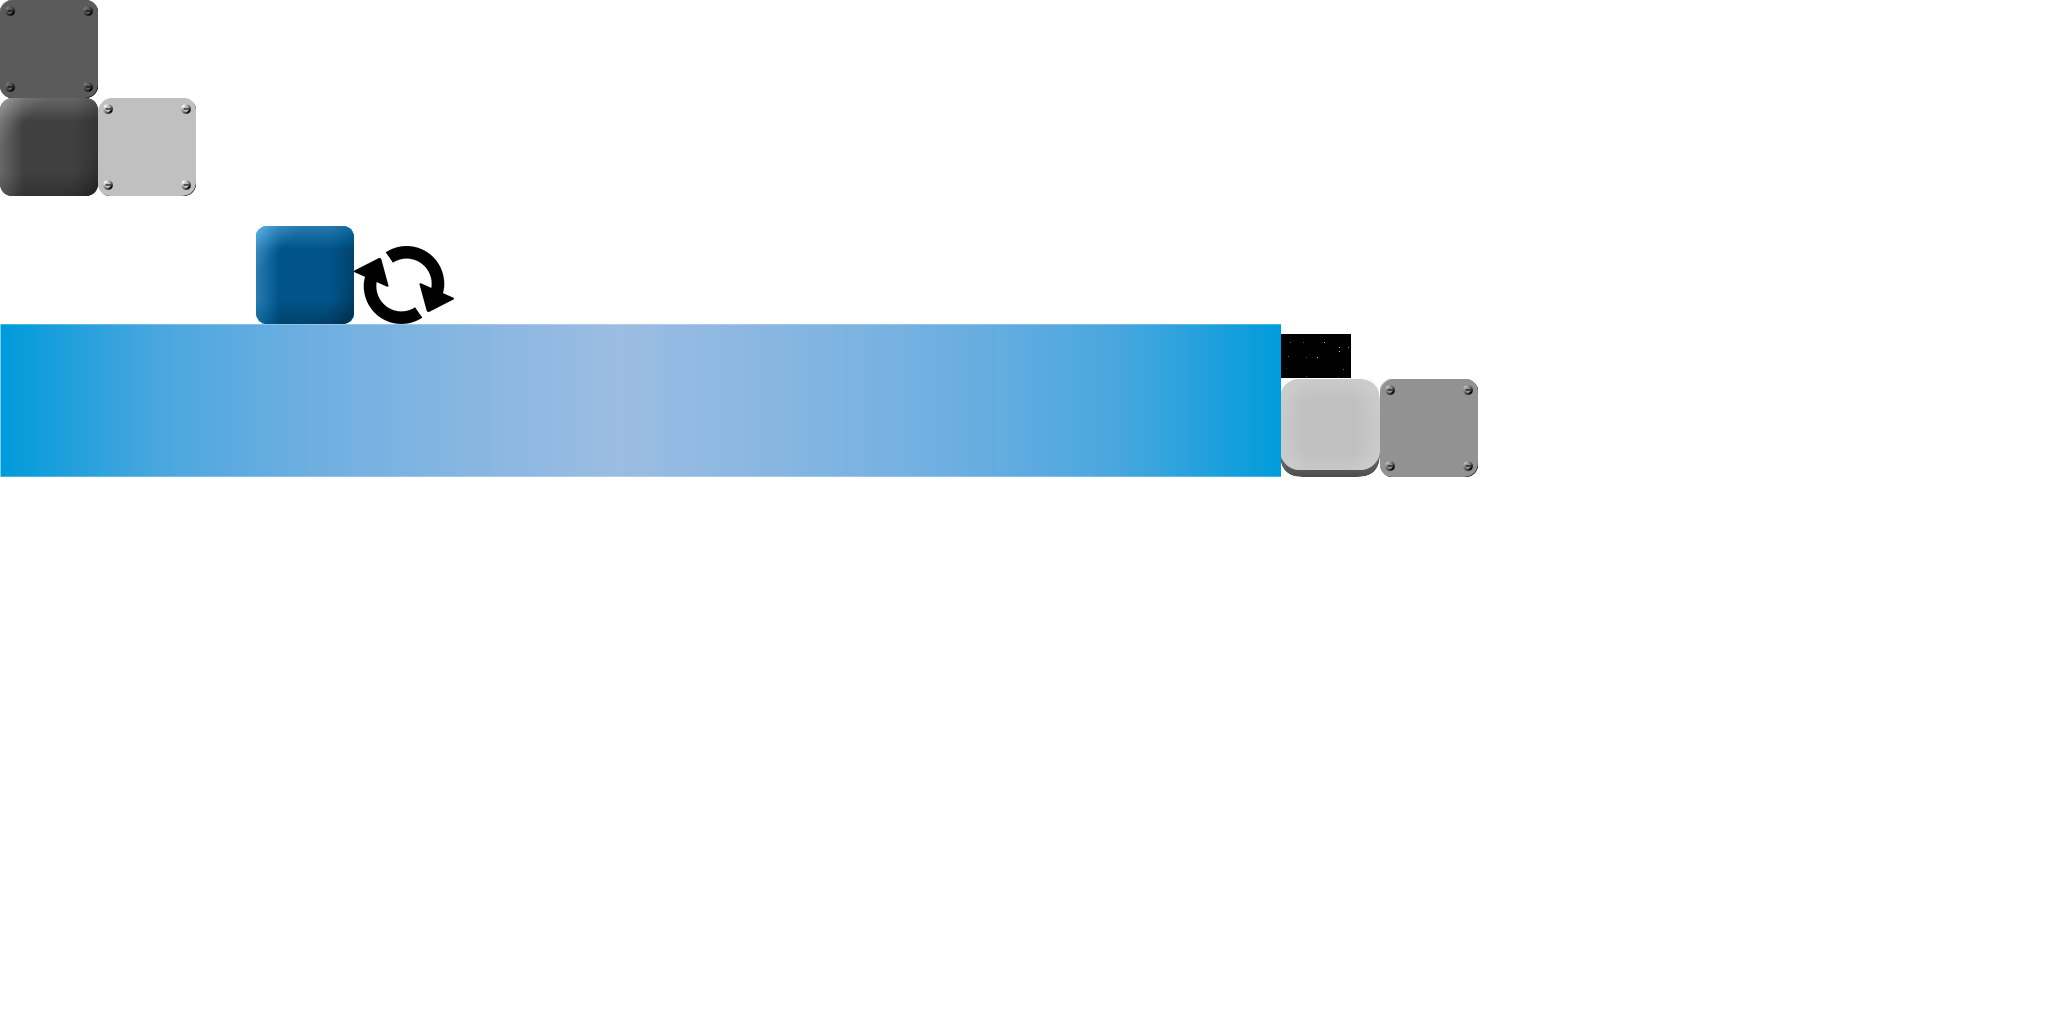
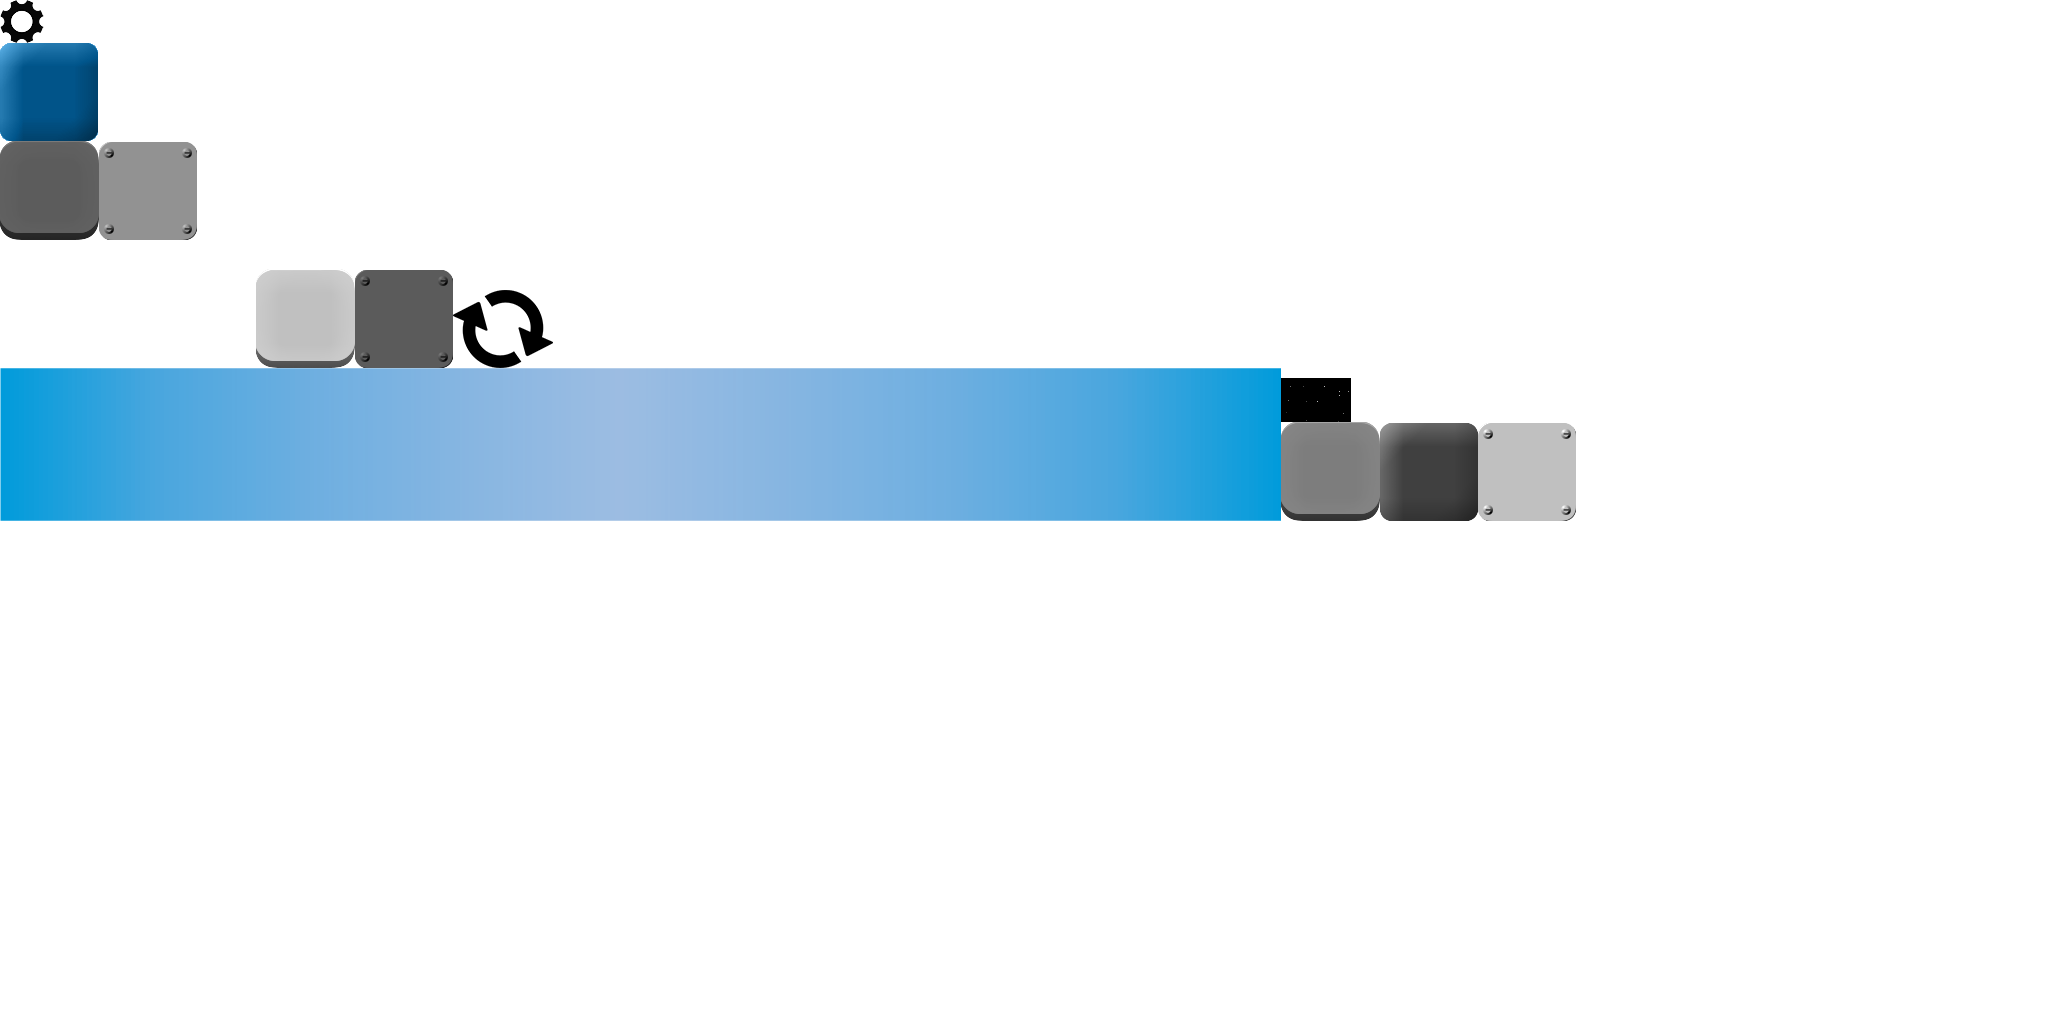
+adds pause menu

Changed region(s): [[0.0, 0.2188, 0.7812, 0.5312], [0.0, 0.0, 0.0938, 0.25]]

diff --git a/core/src/com/siondream/libgdxjam/screens/GameScreen.java b/core/src/com/siondream/libgdxjam/screens/GameScreen.java
@@ -12,15 +12,18 @@ import com.badlogic.gdx.Screen;
 import com.badlogic.gdx.assets.AssetManager;
 import com.badlogic.gdx.audio.Music;
 import com.badlogic.gdx.graphics.OrthographicCamera;
-import com.badlogic.gdx.graphics.g2d.TextureAtlas;
-import com.badlogic.gdx.graphics.g2d.TextureRegion;
 import com.badlogic.gdx.physics.box2d.World;
 import com.badlogic.gdx.scenes.scene2d.InputEvent;
 import com.badlogic.gdx.scenes.scene2d.Stage;
 import com.badlogic.gdx.scenes.scene2d.ui.Button;
+import com.badlogic.gdx.scenes.scene2d.ui.ImageButton;
+import com.badlogic.gdx.scenes.scene2d.ui.Label;
+import com.badlogic.gdx.scenes.scene2d.ui.Skin;
 import com.badlogic.gdx.scenes.scene2d.ui.Table;
+import com.badlogic.gdx.scenes.scene2d.ui.TextButton;
+import com.badlogic.gdx.scenes.scene2d.ui.VerticalGroup;
+import com.badlogic.gdx.scenes.scene2d.ui.Window;
 import com.badlogic.gdx.scenes.scene2d.utils.ClickListener;
-import com.badlogic.gdx.scenes.scene2d.utils.TextureRegionDrawable;
 import com.badlogic.gdx.utils.Disposable;
 import com.badlogic.gdx.utils.Logger;
 import com.badlogic.gdx.utils.TimeUtils;
@@ -65,7 +68,8 @@ public class GameScreen implements Screen, InputProcessor {
 	private OverlapScene scene;
 	private Logger logger = new Logger(GameScreen.class.getSimpleName(), Env.LOG_LEVEL);
 	
-	private Button resetButton;
+	private Button optionsButton;
+	private Window optionsWindow;
 	private Music music;
 	
 	public GameScreen() {
@@ -101,7 +105,7 @@ public class GameScreen implements Screen, InputProcessor {
 		
 		scene = SceneManager.loadScene("Level1", world, categories, rayHandler);
 		
-		loadUI();
+		setupUI();
 		
 		addInputProcessors();
 		
@@ -121,47 +125,93 @@ public class GameScreen implements Screen, InputProcessor {
 		music.stop();
 	}
 	
-	private void loadUI()
+	private void setupUI()
 	{
 		AssetManager assetMgr = Env.getGame().getAssetManager();
 		Stage stage = Env.getGame().getStage();
 		
-		Table table = new Table();
-		table.setFillParent(true);
+		Table mainTable = new Table();
+		mainTable.setFillParent(true);
 		
-		TextureAtlas uiAtlas = assetMgr.get(Env.UI_FOLDER + "/ui.atlas", TextureAtlas.class);
+		Skin skin = assetMgr.get(Env.UI_FOLDER + "/ui.skin", Skin.class);
 		
-		generateResetButton(uiAtlas);
+		createOptionsDialog(skin, mainTable);
+		
+		mainTable.row().padTop(30f).colspan(2).expand();
+		createOptionsButton(skin, mainTable);		
+		mainTable.row().colspan(1);
 
-		table.row().padTop(30f).colspan(2).expand();
-		table.add(resetButton).top().right();
-		table.row().colspan(1);
-				
-		table.debug();
+		//mainTable.debug();
 		
-		stage.addActor(table);
+		stage.addActor(mainTable);
 	}
 	
 	public void loadVictoryUI()
 	{
 		
 	}
-	
 
-	private void generateResetButton(TextureAtlas uiAtlas)
+	//TODO: TO BE IMPROVED
+	private void createOptionsDialog(Skin skin, Table mainTable)
 	{
-		TextureRegion resetButtonRegion = uiAtlas.findRegion("btn_reset"); 
-		Button.ButtonStyle resetButtonStyle = new Button.ButtonStyle();
-		resetButtonStyle.up = new TextureRegionDrawable(resetButtonRegion);
-		resetButton = new Button(resetButtonStyle);
+		optionsWindow = new Window("", skin, "options");
+		optionsWindow.setSize(700f, 500f);
+		optionsWindow.setPosition((Env.MAX_UI_WIDTH - 700f) * .5f, (Env.MAX_UI_HEIGHT - 500f) * .5f);
 		
-		resetButton.addListener(new ClickListener() {
+		Label title = new Label("SETTINGS", skin, "dialogtitle");
+		TextButton resetBtn = new TextButton("RESET", skin, "optionsmenu");
+		TextButton continueBtn = new TextButton("CONTINUE", skin, "optionsmenu");
+		
+		optionsWindow.row().pad(30f).center().uniformX();
+		optionsWindow.add(title).center();
+		
+		Table buttonsGroup = new Table();
+		buttonsGroup.row().center().fillX();
+		buttonsGroup.add(resetBtn);
+		buttonsGroup.row().center().fillX().spaceTop(30f);
+		buttonsGroup.add(continueBtn);
+		
+		optionsWindow.row().pad(50).center();
+		optionsWindow.add(buttonsGroup);
+
+		mainTable.addActor(optionsWindow);
+		
+		resetBtn.addListener(new ClickListener() {
 			@Override
 			public void clicked(InputEvent event, float x, float y)
 			{
+				optionsButton.setVisible(true);
 				SceneManager.resetCurrentScene();
 			};
 		});
+		
+		continueBtn.addListener(new ClickListener() {
+			@Override
+			public void clicked(InputEvent event, float x, float y)
+			{
+				optionsButton.setVisible(true);
+				optionsWindow.setVisible(false);
+			};
+		});
+		
+		optionsWindow.setVisible(false);
+		
+		//optionsWindow.debug();
+
+	}
+
+	private void createOptionsButton(Skin skin, final Table mainTable)
+	{
+		optionsButton = new ImageButton(skin, "options");
+		optionsButton.addListener(new ClickListener() {
+			@Override
+			public void clicked(InputEvent event, float x, float y)
+			{
+				optionsButton.setVisible(false);
+				optionsWindow.setVisible(true);
+			};
+		});
+		mainTable.add(optionsButton).size(75f).top().right();
 	}
 	
 	@Override

diff --git a/core/src/com/siondream/libgdxjam/screens/MainMenuScreen.java b/core/src/com/siondream/libgdxjam/screens/MainMenuScreen.java
@@ -3,6 +3,7 @@ package com.siondream.libgdxjam.screens;
 import com.badlogic.gdx.Gdx;
 import com.badlogic.gdx.Screen;
 import com.badlogic.gdx.assets.AssetManager;
+import com.badlogic.gdx.audio.Sound;
 import com.badlogic.gdx.graphics.g2d.SpriteBatch;
 import com.badlogic.gdx.graphics.g2d.TextureAtlas;
 import com.badlogic.gdx.scenes.scene2d.InputEvent;
@@ -30,6 +31,8 @@ public class MainMenuScreen implements Screen
 	private SpriteBatch batch;
 	private TiledDrawable background;
 	
+	private Sound click;
+	
 	public MainMenuScreen()
 	{
 		logger.info("initialize");
@@ -37,15 +40,17 @@ public class MainMenuScreen implements Screen
 		assetMgr = Env.getGame().getAssetManager();
 		stage = Env.getGame().getStage();
 		batch = new SpriteBatch();
+		
+		click = assetMgr.get(Env.SFX_FOLDER + "/click3.ogg", Sound.class);
 	}
 	
 	@Override
 	public void show()
 	{
-		loadUI();
+		setupUI();
 	}
 	
-	private void loadUI()
+	private void setupUI()
 	{
 		Skin skin = assetMgr.get(Env.UI_FOLDER + "/ui.skin", Skin.class);
 		TextureAtlas uiAtlas = assetMgr.get(Env.UI_FOLDER + "/ui.atlas", TextureAtlas.class);
@@ -82,6 +87,7 @@ public class MainMenuScreen implements Screen
 			public void clicked (InputEvent event, float x, float y)
 			{
 				Env.getGame().setScreen( Screens.getGameScreen() );
+				click.play();
 			}
 		});
 		
@@ -90,6 +96,7 @@ public class MainMenuScreen implements Screen
 			public void clicked (InputEvent event, float x, float y)
 			{
 				Gdx.app.exit();
+				click.play();
 			}
 		});
 		
